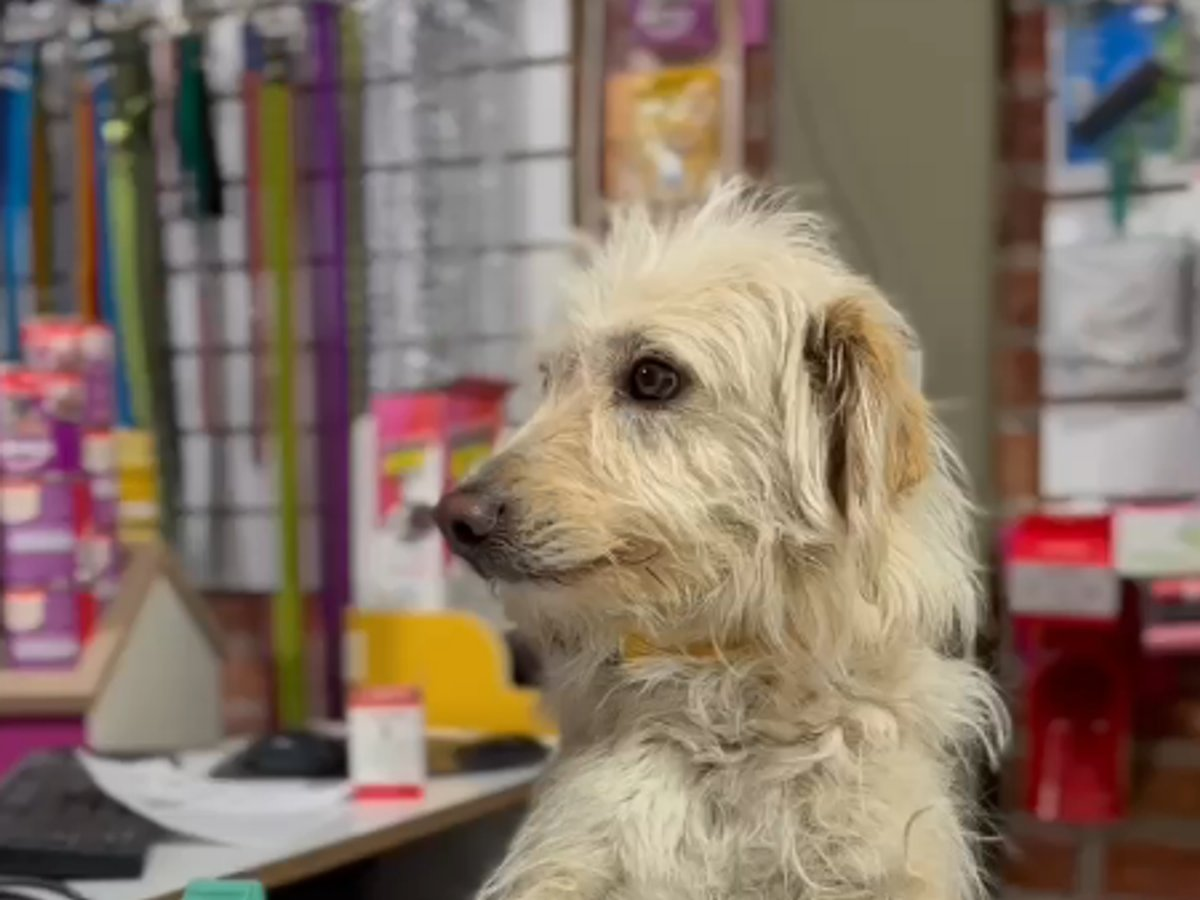
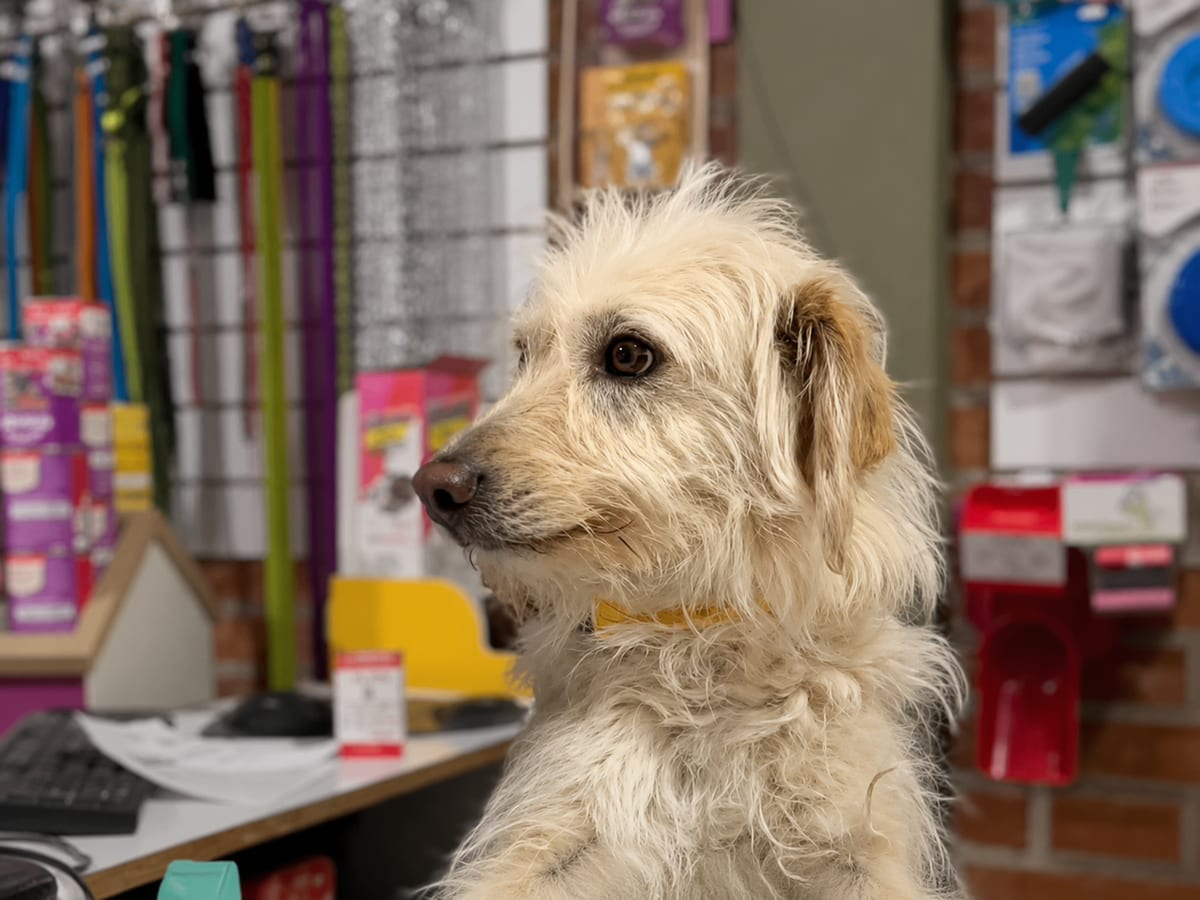
fix: mostrar la foto del interior completa y actualizar foto del hero
- local-interior.jpg: se usa la foto completa sin recortar (antes se recortaba a 16:9 y se perdia contenido). La seccion pasa de banda panoramica edge-to-edge a un panel centrado en formato vertical (aspect 3:4) para que entre toda la imagen.
- hero-mascotas.jpg: reemplaza por la nueva foto de perfil que paso el cliente.

diff --git a/index.html b/index.html
@@ -417,15 +417,19 @@
   </section>
 
   <!-- ============ BANDA DIVISORIA ============ -->
-  <!-- FOTO: local-interior.jpg — recomendado 1600x900px (16:9). Interior del local, idealmente con un cliente siendo atendido. -->
-  <section class="photo-slot aspect-[21/9] sm:aspect-[21/7]">
-    <div class="photo-slot__placeholder" style="background: linear-gradient(120deg, #FCDFE3 0%, #E3F5F7 50%, #F1F7E4 100%);">
-      <p class="font-heading text-xl sm:text-2xl text-coral-700 max-w-lg">
-        Más de 5 años acompañando a las familias de Pocito
-      </p>
+  <!-- FOTO: local-interior.jpg — foto completa del interior del local (sin recortar), formato vertical. -->
+  <section class="py-10 sm:py-14 bg-gradient-to-br from-coral-50 via-white to-turquoise-50">
+    <div class="max-w-sm sm:max-w-md mx-auto px-4 sm:px-6">
+      <div class="photo-slot rounded-3xl shadow-soft-lg aspect-[3/4] w-full">
+        <div class="photo-slot__placeholder" style="background: linear-gradient(120deg, #FCDFE3 0%, #E3F5F7 50%, #F1F7E4 100%);">
+          <p class="font-heading text-xl sm:text-2xl text-coral-700 max-w-lg">
+            Más de 5 años acompañando a las familias de Pocito
+          </p>
+        </div>
+        <img class="photo-slot__img" loading="lazy" src="assets/img/local-interior.jpg"
+             alt="Interior del local de Cuchín Pet Shop en Pocito, San Juan" onerror="this.style.display='none'">
+      </div>
     </div>
-    <img class="photo-slot__img" loading="lazy" src="assets/img/local-interior.jpg"
-         alt="Interior del local de Cuchín Pet Shop en Pocito, San Juan" onerror="this.style.display='none'">
   </section>
 
   <!-- ============ TESTIMONIOS ============ -->

diff --git a/styles.css b/styles.css
@@ -1,1 +1,1 @@
-*,:after,:before{--tw-border-spacing-x:0;--tw-border-spacing-y:0;--tw-translate-x:0;--tw-translate-y:0;--tw-rotate:0;--tw-skew-x:0;--tw-skew-y:0;--tw-scale-x:1;--tw-scale-y:1;--tw-pan-x: ;--tw-pan-y: ;--tw-pinch-zoom: ;--tw-scroll-snap-strictness:proximity;--tw-gradient-from-position: ;--tw-gradient-via-position: ;--tw-gradient-to-position: ;--tw-ordinal: ;--tw-slashed-zero: ;--tw-numeric-figure: ;--tw-numeric-spacing: ;--tw-numeric-fraction: ;--tw-ring-inset: ;--tw-ring-offset-width:0px;--tw-ring-offset-color:#fff;--tw-ring-color:rgba(59,130,246,.5);--tw-ring-offset-shadow:0 0 #0000;--tw-ring-shadow:0 0 #0000;--tw-shadow:0 0 #0000;--tw-shadow-colored:0 0 #0000;--tw-blur: ;--tw-brightness: ;--tw-contrast: ;--tw-grayscale: ;--tw-hue-rotate: ;--tw-invert: ;--tw-saturate: ;--tw-sepia: ;--tw-drop-shadow: ;--tw-backdrop-blur: ;--tw-backdrop-brightness: ;--tw-backdrop-contrast: ;--tw-backdrop-grayscale: ;--tw-backdrop-hue-rotate: ;--tw-backdrop-invert: ;--tw-backdrop-opacity: ;--tw-backdrop-saturate: ;--tw-backdrop-sepia: ;--tw-contain-size: ;--tw-contain-layout: ;--tw-contain-paint: ;--tw-contain-style: }::backdrop{--tw-border-spacing-x:0;--tw-border-spacing-y:0;--tw-translate-x:0;--tw-translate-y:0;--tw-rotate:0;--tw-skew-x:0;--tw-skew-y:0;--tw-scale-x:1;--tw-scale-y:1;--tw-pan-x: ;--tw-pan-y: ;--tw-pinch-zoom: ;--tw-scroll-snap-strictness:proximity;--tw-gradient-from-position: ;--tw-gradient-via-position: ;--tw-gradient-to-position: ;--tw-ordinal: ;--tw-slashed-zero: ;--tw-numeric-figure: ;--tw-numeric-spacing: ;--tw-numeric-fraction: ;--tw-ring-inset: ;--tw-ring-offset-width:0px;--tw-ring-offset-color:#fff;--tw-ring-color:rgba(59,130,246,.5);--tw-ring-offset-shadow:0 0 #0000;--tw-ring-shadow:0 0 #0000;--tw-shadow:0 0 #0000;--tw-shadow-colored:0 0 #0000;--tw-blur: ;--tw-brightness: ;--tw-contrast: ;--tw-grayscale: ;--tw-hue-rotate: ;--tw-invert: ;--tw-saturate: ;--tw-sepia: ;--tw-drop-shadow: ;--tw-backdrop-blur: ;--tw-backdrop-brightness: ;--tw-backdrop-contrast: ;--tw-backdrop-grayscale: ;--tw-backdrop-hue-rotate: ;--tw-backdrop-invert: ;--tw-backdrop-opacity: ;--tw-backdrop-saturate: ;--tw-backdrop-sepia: ;--tw-contain-size: ;--tw-contain-layout: ;--tw-contain-paint: ;--tw-contain-style: }/*! tailwindcss v3.4.19 | MIT License | https://tailwindcss.com*/*,:after,:before{box-sizing:border-box;border:0 solid #e5e7eb}:after,:before{--tw-content:""}:host,html{line-height:1.5;-webkit-text-size-adjust:100%;-moz-tab-size:4;-o-tab-size:4;tab-size:4;font-family:ui-sans-serif,system-ui,sans-serif,Apple Color Emoji,Segoe UI Emoji,Segoe UI Symbol,Noto Color Emoji;font-feature-settings:normal;font-variation-settings:normal;-webkit-tap-highlight-color:transparent}body{margin:0;line-height:inherit}hr{height:0;color:inherit;border-top-width:1px}abbr:where([title]){-webkit-text-decoration:underline dotted;text-decoration:underline dotted}h1,h2,h3,h4,h5,h6{font-size:inherit;font-weight:inherit}a{color:inherit;text-decoration:inherit}b,strong{font-weight:bolder}code,kbd,pre,samp{font-family:ui-monospace,SFMono-Regular,Menlo,Monaco,Consolas,Liberation Mono,Courier New,monospace;font-feature-settings:normal;font-variation-settings:normal;font-size:1em}small{font-size:80%}sub,sup{font-size:75%;line-height:0;position:relative;vertical-align:baseline}sub{bottom:-.25em}sup{top:-.5em}table{text-indent:0;border-color:inherit;border-collapse:collapse}button,input,optgroup,select,textarea{font-family:inherit;font-feature-settings:inherit;font-variation-settings:inherit;font-size:100%;font-weight:inherit;line-height:inherit;letter-spacing:inherit;color:inherit;margin:0;padding:0}button,select{text-transform:none}button,input:where([type=button]),input:where([type=reset]),input:where([type=submit]){-webkit-appearance:button;background-color:transparent;background-image:none}:-moz-focusring{outline:auto}:-moz-ui-invalid{box-shadow:none}progress{vertical-align:baseline}::-webkit-inner-spin-button,::-webkit-outer-spin-button{height:auto}[type=search]{-webkit-appearance:textfield;outline-offset:-2px}::-webkit-search-decoration{-webkit-appearance:none}::-webkit-file-upload-button{-webkit-appearance:button;font:inherit}summary{display:list-item}blockquote,dd,dl,figure,h1,h2,h3,h4,h5,h6,hr,p,pre{margin:0}fieldset{margin:0}fieldset,legend{padding:0}menu,ol,ul{list-style:none;margin:0;padding:0}dialog{padding:0}textarea{resize:vertical}input::-moz-placeholder,textarea::-moz-placeholder{opacity:1;color:#9ca3af}input::placeholder,textarea::placeholder{opacity:1;color:#9ca3af}[role=button],button{cursor:pointer}:disabled{cursor:default}audio,canvas,embed,iframe,img,object,svg,video{display:block;vertical-align:middle}img,video{max-width:100%;height:auto}[hidden]:where(:not([hidden=until-found])){display:none}.sr-only{position:absolute;width:1px;height:1px;padding:0;margin:-1px;overflow:hidden;clip:rect(0,0,0,0);white-space:nowrap;border-width:0}.fixed{position:fixed}.relative{position:relative}.inset-x-0{left:0;right:0}.bottom-6{bottom:1.5rem}.right-6{right:1.5rem}.top-0{top:0}.z-40{z-index:40}.z-50{z-index:50}.order-1{order:1}.order-2{order:2}.mx-auto{margin-left:auto;margin-right:auto}.mb-1{margin-bottom:.25rem}.mb-1\.5{margin-bottom:.375rem}.mb-10{margin-bottom:2.5rem}.mb-12{margin-bottom:3rem}.mb-2{margin-bottom:.5rem}.mb-3{margin-bottom:.75rem}.mb-4{margin-bottom:1rem}.mb-5{margin-bottom:1.25rem}.mb-6{margin-bottom:1.5rem}.mb-8{margin-bottom:2rem}.mt-0\.5{margin-top:.125rem}.mt-1{margin-top:.25rem}.mt-1\.5{margin-top:.375rem}.mt-10{margin-top:2.5rem}.mt-16{margin-top:4rem}.mt-2{margin-top:.5rem}.mt-6{margin-top:1.5rem}.block{display:block}.flex{display:flex}.inline-flex{display:inline-flex}.table{display:table}.grid{display:grid}.hidden{display:none}.aspect-\[21\/9\]{aspect-ratio:21/9}.aspect-\[4\/3\]{aspect-ratio:4/3}.h-10{height:2.5rem}.h-11{height:2.75rem}.h-12{height:3rem}.h-14{height:3.5rem}.h-16{height:4rem}.h-5{height:1.25rem}.h-9{height:2.25rem}.h-full{height:100%}.min-h-\[44px\]{min-height:44px}.w-11{width:2.75rem}.w-12{width:3rem}.w-14{width:3.5rem}.w-5{width:1.25rem}.w-auto{width:auto}.w-full{width:100%}.max-w-2xl{max-width:42rem}.max-w-3xl{max-width:48rem}.max-w-6xl{max-width:72rem}.max-w-lg{max-width:32rem}.max-w-prose{max-width:65ch}.max-w-sm{max-width:24rem}.max-w-xl{max-width:36rem}.max-w-xs{max-width:20rem}.shrink-0{flex-shrink:0}@keyframes spin{to{transform:rotate(1turn)}}.animate-spin{animation:spin 1s linear infinite}.cursor-pointer{cursor:pointer}.list-inside{list-style-position:inside}.list-decimal{list-style-type:decimal}.flex-col{flex-direction:column}.items-start{align-items:flex-start}.items-center{align-items:center}.justify-center{justify-content:center}.justify-between{justify-content:space-between}.gap-1{gap:.25rem}.gap-1\.5{gap:.375rem}.gap-10{gap:2.5rem}.gap-2{gap:.5rem}.gap-3{gap:.75rem}.gap-4{gap:1rem}.gap-5{gap:1.25rem}.gap-6{gap:1.5rem}.space-y-1>:not([hidden])~:not([hidden]){--tw-space-y-reverse:0;margin-top:calc(.25rem*(1 - var(--tw-space-y-reverse)));margin-bottom:calc(.25rem*var(--tw-space-y-reverse))}.space-y-1\.5>:not([hidden])~:not([hidden]){--tw-space-y-reverse:0;margin-top:calc(.375rem*(1 - var(--tw-space-y-reverse)));margin-bottom:calc(.375rem*var(--tw-space-y-reverse))}.space-y-2>:not([hidden])~:not([hidden]){--tw-space-y-reverse:0;margin-top:calc(.5rem*(1 - var(--tw-space-y-reverse)));margin-bottom:calc(.5rem*var(--tw-space-y-reverse))}.space-y-3>:not([hidden])~:not([hidden]){--tw-space-y-reverse:0;margin-top:calc(.75rem*(1 - var(--tw-space-y-reverse)));margin-bottom:calc(.75rem*var(--tw-space-y-reverse))}.space-y-8>:not([hidden])~:not([hidden]){--tw-space-y-reverse:0;margin-top:calc(2rem*(1 - var(--tw-space-y-reverse)));margin-bottom:calc(2rem*var(--tw-space-y-reverse))}.overflow-hidden{overflow:hidden}.rounded{border-radius:.25rem}.rounded-2xl{border-radius:1rem}.rounded-3xl{border-radius:1.5rem}.rounded-full{border-radius:9999px}.rounded-lg{border-radius:.5rem}.rounded-xl{border-radius:.75rem}.border{border-width:1px}.border-0{border-width:0}.border-2{border-width:2px}.border-b{border-bottom-width:1px}.border-t{border-top-width:1px}.border-dashed{border-style:dashed}.border-coral-100{--tw-border-opacity:1;border-color:rgb([phone redacted]/var(--tw-border-opacity,1))}.border-coral-200{--tw-border-opacity:1;border-color:rgb([phone redacted]/var(--tw-border-opacity,1))}.border-coral-600{--tw-border-opacity:1;border-color:rgb([phone redacted]/var(--tw-border-opacity,1))}.border-lime-100{--tw-border-opacity:1;border-color:rgb([phone redacted]/var(--tw-border-opacity,1))}.border-lime-200{--tw-border-opacity:1;border-color:rgb([phone redacted]/var(--tw-border-opacity,1))}.border-turquoise-100{--tw-border-opacity:1;border-color:rgb([phone redacted]/var(--tw-border-opacity,1))}.border-turquoise-800{--tw-border-opacity:1;border-color:rgb([phone redacted]/var(--tw-border-opacity,1))}.border-white\/10{border-color:hsla(0,0%,100%,.1)}.bg-coral-50{--tw-bg-opacity:1;background-color:rgb([phone redacted]/var(--tw-bg-opacity,1))}.bg-coral-600{--tw-bg-opacity:1;background-color:rgb([phone redacted]/var(--tw-bg-opacity,1))}.bg-ink{--tw-bg-opacity:1;background-color:rgb(43 26 29/var(--tw-bg-opacity,1))}.bg-lime-50{--tw-bg-opacity:1;background-color:rgb([phone redacted]/var(--tw-bg-opacity,1))}.bg-turquoise-50{--tw-bg-opacity:1;background-color:rgb([phone redacted]/var(--tw-bg-opacity,1))}.bg-turquoise-800{--tw-bg-opacity:1;background-color:rgb([phone redacted]/var(--tw-bg-opacity,1))}.bg-white{--tw-bg-opacity:1;background-color:rgb([phone redacted]/var(--tw-bg-opacity,1))}.bg-white\/10{background-color:hsla(0,0%,100%,.1)}.bg-white\/95{background-color:hsla(0,0%,100%,.95)}.bg-gradient-to-br{background-image:linear-gradient(to bottom right,var(--tw-gradient-stops))}.bg-gradient-to-r{background-image:linear-gradient(to right,var(--tw-gradient-stops))}.from-coral-50{--tw-gradient-from:#fef1f3 var(--tw-gradient-from-position);--tw-gradient-to:rgba(254,241,243,0) var(--tw-gradient-to-position);--tw-gradient-stops:var(--tw-gradient-from),var(--tw-gradient-to)}.from-turquoise-50{--tw-gradient-from:#f3fbfc var(--tw-gradient-from-position);--tw-gradient-to:rgba(243,251,252,0) var(--tw-gradient-to-position);--tw-gradient-stops:var(--tw-gradient-from),var(--tw-gradient-to)}.via-white{--tw-gradient-to:hsla(0,0%,100%,0) var(--tw-gradient-to-position);--tw-gradient-stops:var(--tw-gradient-from),#fff var(--tw-gradient-via-position),var(--tw-gradient-to)}.to-lime-50{--tw-gradient-to:#f9fbf3 var(--tw-gradient-to-position)}.to-turquoise-50{--tw-gradient-to:#f3fbfc var(--tw-gradient-to-position)}.p-4{padding:1rem}.p-5{padding:1.25rem}.p-6{padding:1.5rem}.px-2{padding-left:.5rem;padding-right:.5rem}.px-3{padding-left:.75rem;padding-right:.75rem}.px-4{padding-left:1rem;padding-right:1rem}.px-7{padding-left:1.75rem;padding-right:1.75rem}.px-8{padding-left:2rem;padding-right:2rem}.py-0{padding-top:0;padding-bottom:0}.py-0\.5{padding-top:.125rem;padding-bottom:.125rem}.py-1{padding-top:.25rem;padding-bottom:.25rem}.py-10{padding-top:2.5rem;padding-bottom:2.5rem}.py-12{padding-top:3rem;padding-bottom:3rem}.py-16{padding-top:4rem;padding-bottom:4rem}.py-2{padding-top:.5rem;padding-bottom:.5rem}.py-2\.5{padding-top:.625rem;padding-bottom:.625rem}.py-3{padding-top:.75rem;padding-bottom:.75rem}.py-3\.5{padding-top:.875rem;padding-bottom:.875rem}.pb-16{padding-bottom:4rem}.pb-4{padding-bottom:1rem}.pb-8{padding-bottom:2rem}.pr-3{padding-right:.75rem}.pt-28{padding-top:7rem}.pt-4{padding-top:1rem}.pt-5{padding-top:1.25rem}.text-center{text-align:center}.font-heading{font-family:Varela Round,sans-serif}.text-2xl{font-size:1.5rem;line-height:2rem}.text-3xl{font-size:1.875rem;line-height:2.25rem}.text-4xl{font-size:2.25rem;line-height:2.5rem}.text-5xl{font-size:3rem;line-height:1}.text-6xl{font-size:3.75rem;line-height:1}.text-\[11px\]{font-size:11px}.text-base{font-size:1rem;line-height:1.5rem}.text-lg{font-size:1.125rem;line-height:1.75rem}.text-sm{font-size:.875rem;line-height:1.25rem}.text-xl{font-size:1.25rem;line-height:1.75rem}.text-xs{font-size:.75rem;line-height:1rem}.font-bold{font-weight:700}.font-normal{font-weight:400}.font-semibold{font-weight:600}.italic{font-style:italic}.leading-relaxed{line-height:1.625}.leading-tight{line-height:1.25}.text-coral-300{--tw-text-opacity:1;color:rgb([phone redacted]/var(--tw-text-opacity,1))}.text-coral-400{--tw-text-opacity:1;color:rgb([phone redacted]/var(--tw-text-opacity,1))}.text-coral-600{--tw-text-opacity:1;color:rgb([phone redacted]/var(--tw-text-opacity,1))}.text-coral-700{--tw-text-opacity:1;color:rgb([phone redacted]/var(--tw-text-opacity,1))}.text-ink{--tw-text-opacity:1;color:rgb(43 26 29/var(--tw-text-opacity,1))}.text-ink-muted{--tw-text-opacity:1;color:rgb([phone redacted]/var(--tw-text-opacity,1))}.text-ink-muted\/70{color:rgba(107,90,93,.7)}.text-lime-600{--tw-text-opacity:1;color:rgb([phone redacted]/var(--tw-text-opacity,1))}.text-lime-700{--tw-text-opacity:1;color:rgb([phone redacted]/var(--tw-text-opacity,1))}.text-lime-800{--tw-text-opacity:1;color:rgb([phone redacted]/var(--tw-text-opacity,1))}.text-turquoise-600{--tw-text-opacity:1;color:rgb([phone redacted]/var(--tw-text-opacity,1))}.text-turquoise-700{--tw-text-opacity:1;color:rgb([phone redacted]/var(--tw-text-opacity,1))}.text-turquoise-800{--tw-text-opacity:1;color:rgb([phone redacted]/var(--tw-text-opacity,1))}.text-white{--tw-text-opacity:1;color:rgb([phone redacted]/var(--tw-text-opacity,1))}.text-white\/70{color:hsla(0,0%,100%,.7)}.text-white\/80{color:hsla(0,0%,100%,.8)}.text-white\/90{color:hsla(0,0%,100%,.9)}.underline{text-decoration-line:underline}.antialiased{-webkit-font-smoothing:antialiased;-moz-osx-font-smoothing:grayscale}.shadow-soft-lg{--tw-shadow:0 16px 32px rgba(238,98,120,.16);--tw-shadow-colored:0 16px 32px var(--tw-shadow-color)}.shadow-soft-lg,.shadow-soft-md{box-shadow:var(--tw-ring-offset-shadow,0 0 #0000),var(--tw-ring-shadow,0 0 #0000),var(--tw-shadow)}.shadow-soft-md{--tw-shadow:0 8px 24px rgba(238,98,120,.12);--tw-shadow-colored:0 8px 24px var(--tw-shadow-color)}.shadow-soft-sm{--tw-shadow:0 2px 8px rgba(238,98,120,.08);--tw-shadow-colored:0 2px 8px var(--tw-shadow-color);box-shadow:var(--tw-ring-offset-shadow,0 0 #0000),var(--tw-ring-shadow,0 0 #0000),var(--tw-shadow)}.outline{outline-style:solid}.blur{--tw-blur:blur(8px);filter:var(--tw-blur) var(--tw-brightness) var(--tw-contrast) var(--tw-grayscale) var(--tw-hue-rotate) var(--tw-invert) var(--tw-saturate) var(--tw-sepia) var(--tw-drop-shadow)}.backdrop-blur{--tw-backdrop-blur:blur(8px);-webkit-backdrop-filter:var(--tw-backdrop-blur) var(--tw-backdrop-brightness) var(--tw-backdrop-contrast) var(--tw-backdrop-grayscale) var(--tw-backdrop-hue-rotate) var(--tw-backdrop-invert) var(--tw-backdrop-opacity) var(--tw-backdrop-saturate) var(--tw-backdrop-sepia);backdrop-filter:var(--tw-backdrop-blur) var(--tw-backdrop-brightness) var(--tw-backdrop-contrast) var(--tw-backdrop-grayscale) var(--tw-backdrop-hue-rotate) var(--tw-backdrop-invert) var(--tw-backdrop-opacity) var(--tw-backdrop-saturate) var(--tw-backdrop-sepia)}.transition-all{transition-property:all;transition-timing-function:cubic-bezier(.4,0,.2,1);transition-duration:.15s}.transition-colors{transition-property:color,background-color,border-color,text-decoration-color,fill,stroke;transition-timing-function:cubic-bezier(.4,0,.2,1);transition-duration:.15s}.duration-200{transition-duration:.2s}html{scroll-behavior:smooth}body{font-family:Nunito Sans,sans-serif}.font-heading,h1,h2,h3{font-family:Varela Round,sans-serif}.photo-slot{position:relative;overflow:hidden}.photo-slot__placeholder{position:absolute;inset:0;display:flex;flex-direction:column;align-items:center;justify-content:center;gap:.5rem;background:linear-gradient(135deg,#fcdfe3,#e3f5f7 55%,#f1f7e4);color:#af132b;text-align:center;padding:1rem}.photo-slot__img{position:absolute;inset:0;width:100%;height:100%;-o-object-fit:cover;object-fit:cover}@media (prefers-reduced-motion:reduce){*,:after,:before{animation-duration:.01ms!important;animation-iteration-count:1!important;transition-duration:.01ms!important;scroll-behavior:auto!important}}@keyframes soft-pulse-ring{0%{box-shadow:0 0 0 0 rgba(212,23,53,.35)}to{box-shadow:0 0 0 16px rgba(212,23,53,0)}}.whatsapp-float:before{content:"";position:absolute;inset:0;border-radius:9999px;animation:soft-pulse-ring 1.8s ease-out 2}:focus-visible{outline:3px solid #d41735;outline-offset:2px}.hover\:-translate-y-0\.5:hover{--tw-translate-y:-0.125rem}.hover\:-translate-y-0\.5:hover,.hover\:-translate-y-1:hover{transform:translate(var(--tw-translate-x),var(--tw-translate-y)) rotate(var(--tw-rotate)) skewX(var(--tw-skew-x)) skewY(var(--tw-skew-y)) scaleX(var(--tw-scale-x)) scaleY(var(--tw-scale-y))}.hover\:-translate-y-1:hover{--tw-translate-y:-0.25rem}.hover\:bg-coral-50:hover{--tw-bg-opacity:1;background-color:rgb([phone redacted]/var(--tw-bg-opacity,1))}.hover\:bg-coral-700:hover{--tw-bg-opacity:1;background-color:rgb([phone redacted]/var(--tw-bg-opacity,1))}.hover\:bg-turquoise-50:hover{--tw-bg-opacity:1;background-color:rgb([phone redacted]/var(--tw-bg-opacity,1))}.hover\:bg-turquoise-900:hover{--tw-bg-opacity:1;background-color:rgb(28 89 95/var(--tw-bg-opacity,1))}.hover\:bg-white\/20:hover{background-color:hsla(0,0%,100%,.2)}.hover\:text-coral-600:hover{--tw-text-opacity:1;color:rgb([phone redacted]/var(--tw-text-opacity,1))}.hover\:text-white:hover{--tw-text-opacity:1;color:rgb([phone redacted]/var(--tw-text-opacity,1))}.hover\:underline:hover{text-decoration-line:underline}.hover\:shadow-soft-lg:hover{--tw-shadow:0 16px 32px rgba(238,98,120,.16);--tw-shadow-colored:0 16px 32px var(--tw-shadow-color)}.hover\:shadow-soft-lg:hover,.hover\:shadow-soft-md:hover{box-shadow:var(--tw-ring-offset-shadow,0 0 #0000),var(--tw-ring-shadow,0 0 #0000),var(--tw-shadow)}.hover\:shadow-soft-md:hover{--tw-shadow:0 8px 24px rgba(238,98,120,.12);--tw-shadow-colored:0 8px 24px var(--tw-shadow-color)}.focus\:not-sr-only:focus{position:static;width:auto;height:auto;padding:0;margin:0;overflow:visible;clip:auto;white-space:normal}.focus\:absolute:focus{position:absolute}.focus\:left-3:focus{left:.75rem}.focus\:top-3:focus{top:.75rem}.focus\:z-\[100\]:focus{z-index:100}.focus\:rounded-full:focus{border-radius:9999px}.focus\:border-coral-600:focus{--tw-border-opacity:1;border-color:rgb([phone redacted]/var(--tw-border-opacity,1))}.focus\:bg-white:focus{--tw-bg-opacity:1;background-color:rgb([phone redacted]/var(--tw-bg-opacity,1))}.focus\:px-4:focus{padding-left:1rem;padding-right:1rem}.focus\:py-2:focus{padding-top:.5rem;padding-bottom:.5rem}.focus\:font-bold:focus{font-weight:700}.focus\:text-coral-700:focus{--tw-text-opacity:1;color:rgb([phone redacted]/var(--tw-text-opacity,1))}.focus\:shadow-soft-lg:focus{--tw-shadow:0 16px 32px rgba(238,98,120,.16);--tw-shadow-colored:0 16px 32px var(--tw-shadow-color);box-shadow:var(--tw-ring-offset-shadow,0 0 #0000),var(--tw-ring-shadow,0 0 #0000),var(--tw-shadow)}.focus\:outline-none:focus{outline:2px solid transparent;outline-offset:2px}.focus\:ring-2:focus{--tw-ring-offset-shadow:var(--tw-ring-inset) 0 0 0 var(--tw-ring-offset-width) var(--tw-ring-offset-color);--tw-ring-shadow:var(--tw-ring-inset) 0 0 0 calc(2px + var(--tw-ring-offset-width)) var(--tw-ring-color);box-shadow:var(--tw-ring-offset-shadow),var(--tw-ring-shadow),var(--tw-shadow,0 0 #0000)}.focus\:ring-coral-600\/20:focus{--tw-ring-color:rgba(212,23,53,.2)}.focus\:ring-coral-600\/30:focus{--tw-ring-color:rgba(212,23,53,.3)}.disabled\:cursor-not-allowed:disabled{cursor:not-allowed}.disabled\:opacity-70:disabled{opacity:.7}.disabled\:hover\:translate-y-0:hover:disabled{--tw-translate-y:0px;transform:translate(var(--tw-translate-x),var(--tw-translate-y)) rotate(var(--tw-rotate)) skewX(var(--tw-skew-x)) skewY(var(--tw-skew-y)) scaleX(var(--tw-scale-x)) scaleY(var(--tw-scale-y))}@media (min-width:640px){.sm\:col-span-2{grid-column:span 2/span 2}.sm\:inline-flex{display:inline-flex}.sm\:aspect-\[21\/7\]{aspect-ratio:21/7}.sm\:w-auto{width:auto}.sm\:grid-cols-2{grid-template-columns:repeat(2,minmax(0,1fr))}.sm\:flex-row{flex-direction:row}.sm\:p-10{padding:2.5rem}.sm\:px-6{padding-left:1.5rem;padding-right:1.5rem}.sm\:py-16{padding-top:4rem;padding-bottom:4rem}.sm\:py-24{padding-top:6rem}.sm\:pb-24,.sm\:py-24{padding-bottom:6rem}.sm\:pt-36{padding-top:9rem}.sm\:text-2xl{font-size:1.5rem;line-height:2rem}.sm\:text-4xl{font-size:2.25rem;line-height:2.5rem}.sm\:text-5xl{font-size:3rem;line-height:1}}@media (min-width:768px){.md\:flex{display:flex}.md\:hidden{display:none}}@media (min-width:1024px){.lg\:order-1{order:1}.lg\:order-2{order:2}.lg\:col-span-1{grid-column:span 1/span 1}.lg\:aspect-auto{aspect-ratio:auto}.lg\:h-full{height:100%}.lg\:min-h-\[320px\]{min-height:320px}.lg\:grid-cols-2{grid-template-columns:repeat(2,minmax(0,1fr))}.lg\:grid-cols-3{grid-template-columns:repeat(3,minmax(0,1fr))}.lg\:grid-cols-4{grid-template-columns:repeat(4,minmax(0,1fr))}.lg\:gap-16{gap:4rem}}
+*,:after,:before{--tw-border-spacing-x:0;--tw-border-spacing-y:0;--tw-translate-x:0;--tw-translate-y:0;--tw-rotate:0;--tw-skew-x:0;--tw-skew-y:0;--tw-scale-x:1;--tw-scale-y:1;--tw-pan-x: ;--tw-pan-y: ;--tw-pinch-zoom: ;--tw-scroll-snap-strictness:proximity;--tw-gradient-from-position: ;--tw-gradient-via-position: ;--tw-gradient-to-position: ;--tw-ordinal: ;--tw-slashed-zero: ;--tw-numeric-figure: ;--tw-numeric-spacing: ;--tw-numeric-fraction: ;--tw-ring-inset: ;--tw-ring-offset-width:0px;--tw-ring-offset-color:#fff;--tw-ring-color:rgba(59,130,246,.5);--tw-ring-offset-shadow:0 0 #0000;--tw-ring-shadow:0 0 #0000;--tw-shadow:0 0 #0000;--tw-shadow-colored:0 0 #0000;--tw-blur: ;--tw-brightness: ;--tw-contrast: ;--tw-grayscale: ;--tw-hue-rotate: ;--tw-invert: ;--tw-saturate: ;--tw-sepia: ;--tw-drop-shadow: ;--tw-backdrop-blur: ;--tw-backdrop-brightness: ;--tw-backdrop-contrast: ;--tw-backdrop-grayscale: ;--tw-backdrop-hue-rotate: ;--tw-backdrop-invert: ;--tw-backdrop-opacity: ;--tw-backdrop-saturate: ;--tw-backdrop-sepia: ;--tw-contain-size: ;--tw-contain-layout: ;--tw-contain-paint: ;--tw-contain-style: }::backdrop{--tw-border-spacing-x:0;--tw-border-spacing-y:0;--tw-translate-x:0;--tw-translate-y:0;--tw-rotate:0;--tw-skew-x:0;--tw-skew-y:0;--tw-scale-x:1;--tw-scale-y:1;--tw-pan-x: ;--tw-pan-y: ;--tw-pinch-zoom: ;--tw-scroll-snap-strictness:proximity;--tw-gradient-from-position: ;--tw-gradient-via-position: ;--tw-gradient-to-position: ;--tw-ordinal: ;--tw-slashed-zero: ;--tw-numeric-figure: ;--tw-numeric-spacing: ;--tw-numeric-fraction: ;--tw-ring-inset: ;--tw-ring-offset-width:0px;--tw-ring-offset-color:#fff;--tw-ring-color:rgba(59,130,246,.5);--tw-ring-offset-shadow:0 0 #0000;--tw-ring-shadow:0 0 #0000;--tw-shadow:0 0 #0000;--tw-shadow-colored:0 0 #0000;--tw-blur: ;--tw-brightness: ;--tw-contrast: ;--tw-grayscale: ;--tw-hue-rotate: ;--tw-invert: ;--tw-saturate: ;--tw-sepia: ;--tw-drop-shadow: ;--tw-backdrop-blur: ;--tw-backdrop-brightness: ;--tw-backdrop-contrast: ;--tw-backdrop-grayscale: ;--tw-backdrop-hue-rotate: ;--tw-backdrop-invert: ;--tw-backdrop-opacity: ;--tw-backdrop-saturate: ;--tw-backdrop-sepia: ;--tw-contain-size: ;--tw-contain-layout: ;--tw-contain-paint: ;--tw-contain-style: }/*! tailwindcss v3.4.19 | MIT License | https://tailwindcss.com*/*,:after,:before{box-sizing:border-box;border:0 solid #e5e7eb}:after,:before{--tw-content:""}:host,html{line-height:1.5;-webkit-text-size-adjust:100%;-moz-tab-size:4;-o-tab-size:4;tab-size:4;font-family:ui-sans-serif,system-ui,sans-serif,Apple Color Emoji,Segoe UI Emoji,Segoe UI Symbol,Noto Color Emoji;font-feature-settings:normal;font-variation-settings:normal;-webkit-tap-highlight-color:transparent}body{margin:0;line-height:inherit}hr{height:0;color:inherit;border-top-width:1px}abbr:where([title]){-webkit-text-decoration:underline dotted;text-decoration:underline dotted}h1,h2,h3,h4,h5,h6{font-size:inherit;font-weight:inherit}a{color:inherit;text-decoration:inherit}b,strong{font-weight:bolder}code,kbd,pre,samp{font-family:ui-monospace,SFMono-Regular,Menlo,Monaco,Consolas,Liberation Mono,Courier New,monospace;font-feature-settings:normal;font-variation-settings:normal;font-size:1em}small{font-size:80%}sub,sup{font-size:75%;line-height:0;position:relative;vertical-align:baseline}sub{bottom:-.25em}sup{top:-.5em}table{text-indent:0;border-color:inherit;border-collapse:collapse}button,input,optgroup,select,textarea{font-family:inherit;font-feature-settings:inherit;font-variation-settings:inherit;font-size:100%;font-weight:inherit;line-height:inherit;letter-spacing:inherit;color:inherit;margin:0;padding:0}button,select{text-transform:none}button,input:where([type=button]),input:where([type=reset]),input:where([type=submit]){-webkit-appearance:button;background-color:transparent;background-image:none}:-moz-focusring{outline:auto}:-moz-ui-invalid{box-shadow:none}progress{vertical-align:baseline}::-webkit-inner-spin-button,::-webkit-outer-spin-button{height:auto}[type=search]{-webkit-appearance:textfield;outline-offset:-2px}::-webkit-search-decoration{-webkit-appearance:none}::-webkit-file-upload-button{-webkit-appearance:button;font:inherit}summary{display:list-item}blockquote,dd,dl,figure,h1,h2,h3,h4,h5,h6,hr,p,pre{margin:0}fieldset{margin:0}fieldset,legend{padding:0}menu,ol,ul{list-style:none;margin:0;padding:0}dialog{padding:0}textarea{resize:vertical}input::-moz-placeholder,textarea::-moz-placeholder{opacity:1;color:#9ca3af}input::placeholder,textarea::placeholder{opacity:1;color:#9ca3af}[role=button],button{cursor:pointer}:disabled{cursor:default}audio,canvas,embed,iframe,img,object,svg,video{display:block;vertical-align:middle}img,video{max-width:100%;height:auto}[hidden]:where(:not([hidden=until-found])){display:none}.sr-only{position:absolute;width:1px;height:1px;padding:0;margin:-1px;overflow:hidden;clip:rect(0,0,0,0);white-space:nowrap;border-width:0}.fixed{position:fixed}.relative{position:relative}.inset-x-0{left:0;right:0}.bottom-6{bottom:1.5rem}.right-6{right:1.5rem}.top-0{top:0}.z-40{z-index:40}.z-50{z-index:50}.order-1{order:1}.order-2{order:2}.mx-auto{margin-left:auto;margin-right:auto}.mb-1{margin-bottom:.25rem}.mb-1\.5{margin-bottom:.375rem}.mb-10{margin-bottom:2.5rem}.mb-12{margin-bottom:3rem}.mb-2{margin-bottom:.5rem}.mb-3{margin-bottom:.75rem}.mb-4{margin-bottom:1rem}.mb-5{margin-bottom:1.25rem}.mb-6{margin-bottom:1.5rem}.mb-8{margin-bottom:2rem}.mt-0\.5{margin-top:.125rem}.mt-1{margin-top:.25rem}.mt-1\.5{margin-top:.375rem}.mt-10{margin-top:2.5rem}.mt-16{margin-top:4rem}.mt-2{margin-top:.5rem}.mt-6{margin-top:1.5rem}.block{display:block}.flex{display:flex}.inline-flex{display:inline-flex}.table{display:table}.grid{display:grid}.hidden{display:none}.aspect-\[3\/4\]{aspect-ratio:3/4}.aspect-\[4\/3\]{aspect-ratio:4/3}.h-10{height:2.5rem}.h-11{height:2.75rem}.h-12{height:3rem}.h-14{height:3.5rem}.h-16{height:4rem}.h-5{height:1.25rem}.h-9{height:2.25rem}.h-full{height:100%}.min-h-\[44px\]{min-height:44px}.w-11{width:2.75rem}.w-12{width:3rem}.w-14{width:3.5rem}.w-5{width:1.25rem}.w-auto{width:auto}.w-full{width:100%}.max-w-2xl{max-width:42rem}.max-w-3xl{max-width:48rem}.max-w-6xl{max-width:72rem}.max-w-lg{max-width:32rem}.max-w-prose{max-width:65ch}.max-w-sm{max-width:24rem}.max-w-xl{max-width:36rem}.max-w-xs{max-width:20rem}.shrink-0{flex-shrink:0}@keyframes spin{to{transform:rotate(1turn)}}.animate-spin{animation:spin 1s linear infinite}.cursor-pointer{cursor:pointer}.list-inside{list-style-position:inside}.list-decimal{list-style-type:decimal}.flex-col{flex-direction:column}.items-start{align-items:flex-start}.items-center{align-items:center}.justify-center{justify-content:center}.justify-between{justify-content:space-between}.gap-1{gap:.25rem}.gap-1\.5{gap:.375rem}.gap-10{gap:2.5rem}.gap-2{gap:.5rem}.gap-3{gap:.75rem}.gap-4{gap:1rem}.gap-5{gap:1.25rem}.gap-6{gap:1.5rem}.space-y-1>:not([hidden])~:not([hidden]){--tw-space-y-reverse:0;margin-top:calc(.25rem*(1 - var(--tw-space-y-reverse)));margin-bottom:calc(.25rem*var(--tw-space-y-reverse))}.space-y-1\.5>:not([hidden])~:not([hidden]){--tw-space-y-reverse:0;margin-top:calc(.375rem*(1 - var(--tw-space-y-reverse)));margin-bottom:calc(.375rem*var(--tw-space-y-reverse))}.space-y-2>:not([hidden])~:not([hidden]){--tw-space-y-reverse:0;margin-top:calc(.5rem*(1 - var(--tw-space-y-reverse)));margin-bottom:calc(.5rem*var(--tw-space-y-reverse))}.space-y-3>:not([hidden])~:not([hidden]){--tw-space-y-reverse:0;margin-top:calc(.75rem*(1 - var(--tw-space-y-reverse)));margin-bottom:calc(.75rem*var(--tw-space-y-reverse))}.space-y-8>:not([hidden])~:not([hidden]){--tw-space-y-reverse:0;margin-top:calc(2rem*(1 - var(--tw-space-y-reverse)));margin-bottom:calc(2rem*var(--tw-space-y-reverse))}.overflow-hidden{overflow:hidden}.rounded{border-radius:.25rem}.rounded-2xl{border-radius:1rem}.rounded-3xl{border-radius:1.5rem}.rounded-full{border-radius:9999px}.rounded-lg{border-radius:.5rem}.rounded-xl{border-radius:.75rem}.border{border-width:1px}.border-0{border-width:0}.border-2{border-width:2px}.border-b{border-bottom-width:1px}.border-t{border-top-width:1px}.border-dashed{border-style:dashed}.border-coral-100{--tw-border-opacity:1;border-color:rgb([phone redacted]/var(--tw-border-opacity,1))}.border-coral-200{--tw-border-opacity:1;border-color:rgb([phone redacted]/var(--tw-border-opacity,1))}.border-coral-600{--tw-border-opacity:1;border-color:rgb([phone redacted]/var(--tw-border-opacity,1))}.border-lime-100{--tw-border-opacity:1;border-color:rgb([phone redacted]/var(--tw-border-opacity,1))}.border-lime-200{--tw-border-opacity:1;border-color:rgb([phone redacted]/var(--tw-border-opacity,1))}.border-turquoise-100{--tw-border-opacity:1;border-color:rgb([phone redacted]/var(--tw-border-opacity,1))}.border-turquoise-800{--tw-border-opacity:1;border-color:rgb([phone redacted]/var(--tw-border-opacity,1))}.border-white\/10{border-color:hsla(0,0%,100%,.1)}.bg-coral-50{--tw-bg-opacity:1;background-color:rgb([phone redacted]/var(--tw-bg-opacity,1))}.bg-coral-600{--tw-bg-opacity:1;background-color:rgb([phone redacted]/var(--tw-bg-opacity,1))}.bg-ink{--tw-bg-opacity:1;background-color:rgb(43 26 29/var(--tw-bg-opacity,1))}.bg-lime-50{--tw-bg-opacity:1;background-color:rgb([phone redacted]/var(--tw-bg-opacity,1))}.bg-turquoise-50{--tw-bg-opacity:1;background-color:rgb([phone redacted]/var(--tw-bg-opacity,1))}.bg-turquoise-800{--tw-bg-opacity:1;background-color:rgb([phone redacted]/var(--tw-bg-opacity,1))}.bg-white{--tw-bg-opacity:1;background-color:rgb([phone redacted]/var(--tw-bg-opacity,1))}.bg-white\/10{background-color:hsla(0,0%,100%,.1)}.bg-white\/95{background-color:hsla(0,0%,100%,.95)}.bg-gradient-to-br{background-image:linear-gradient(to bottom right,var(--tw-gradient-stops))}.bg-gradient-to-r{background-image:linear-gradient(to right,var(--tw-gradient-stops))}.from-coral-50{--tw-gradient-from:#fef1f3 var(--tw-gradient-from-position);--tw-gradient-to:rgba(254,241,243,0) var(--tw-gradient-to-position);--tw-gradient-stops:var(--tw-gradient-from),var(--tw-gradient-to)}.from-turquoise-50{--tw-gradient-from:#f3fbfc var(--tw-gradient-from-position);--tw-gradient-to:rgba(243,251,252,0) var(--tw-gradient-to-position);--tw-gradient-stops:var(--tw-gradient-from),var(--tw-gradient-to)}.via-white{--tw-gradient-to:hsla(0,0%,100%,0) var(--tw-gradient-to-position);--tw-gradient-stops:var(--tw-gradient-from),#fff var(--tw-gradient-via-position),var(--tw-gradient-to)}.to-lime-50{--tw-gradient-to:#f9fbf3 var(--tw-gradient-to-position)}.to-turquoise-50{--tw-gradient-to:#f3fbfc var(--tw-gradient-to-position)}.p-4{padding:1rem}.p-5{padding:1.25rem}.p-6{padding:1.5rem}.px-2{padding-left:.5rem;padding-right:.5rem}.px-3{padding-left:.75rem;padding-right:.75rem}.px-4{padding-left:1rem;padding-right:1rem}.px-7{padding-left:1.75rem;padding-right:1.75rem}.px-8{padding-left:2rem;padding-right:2rem}.py-0{padding-top:0;padding-bottom:0}.py-0\.5{padding-top:.125rem;padding-bottom:.125rem}.py-1{padding-top:.25rem;padding-bottom:.25rem}.py-10{padding-top:2.5rem;padding-bottom:2.5rem}.py-12{padding-top:3rem;padding-bottom:3rem}.py-16{padding-top:4rem;padding-bottom:4rem}.py-2{padding-top:.5rem;padding-bottom:.5rem}.py-2\.5{padding-top:.625rem;padding-bottom:.625rem}.py-3{padding-top:.75rem;padding-bottom:.75rem}.py-3\.5{padding-top:.875rem;padding-bottom:.875rem}.pb-16{padding-bottom:4rem}.pb-4{padding-bottom:1rem}.pb-8{padding-bottom:2rem}.pr-3{padding-right:.75rem}.pt-28{padding-top:7rem}.pt-4{padding-top:1rem}.pt-5{padding-top:1.25rem}.text-center{text-align:center}.font-heading{font-family:Varela Round,sans-serif}.text-2xl{font-size:1.5rem;line-height:2rem}.text-3xl{font-size:1.875rem;line-height:2.25rem}.text-4xl{font-size:2.25rem;line-height:2.5rem}.text-5xl{font-size:3rem;line-height:1}.text-6xl{font-size:3.75rem;line-height:1}.text-\[11px\]{font-size:11px}.text-base{font-size:1rem;line-height:1.5rem}.text-lg{font-size:1.125rem;line-height:1.75rem}.text-sm{font-size:.875rem;line-height:1.25rem}.text-xl{font-size:1.25rem;line-height:1.75rem}.text-xs{font-size:.75rem;line-height:1rem}.font-bold{font-weight:700}.font-normal{font-weight:400}.font-semibold{font-weight:600}.italic{font-style:italic}.leading-relaxed{line-height:1.625}.leading-tight{line-height:1.25}.text-coral-300{--tw-text-opacity:1;color:rgb([phone redacted]/var(--tw-text-opacity,1))}.text-coral-400{--tw-text-opacity:1;color:rgb([phone redacted]/var(--tw-text-opacity,1))}.text-coral-600{--tw-text-opacity:1;color:rgb([phone redacted]/var(--tw-text-opacity,1))}.text-coral-700{--tw-text-opacity:1;color:rgb([phone redacted]/var(--tw-text-opacity,1))}.text-ink{--tw-text-opacity:1;color:rgb(43 26 29/var(--tw-text-opacity,1))}.text-ink-muted{--tw-text-opacity:1;color:rgb([phone redacted]/var(--tw-text-opacity,1))}.text-ink-muted\/70{color:rgba(107,90,93,.7)}.text-lime-600{--tw-text-opacity:1;color:rgb([phone redacted]/var(--tw-text-opacity,1))}.text-lime-700{--tw-text-opacity:1;color:rgb([phone redacted]/var(--tw-text-opacity,1))}.text-lime-800{--tw-text-opacity:1;color:rgb([phone redacted]/var(--tw-text-opacity,1))}.text-turquoise-600{--tw-text-opacity:1;color:rgb([phone redacted]/var(--tw-text-opacity,1))}.text-turquoise-700{--tw-text-opacity:1;color:rgb([phone redacted]/var(--tw-text-opacity,1))}.text-turquoise-800{--tw-text-opacity:1;color:rgb([phone redacted]/var(--tw-text-opacity,1))}.text-white{--tw-text-opacity:1;color:rgb([phone redacted]/var(--tw-text-opacity,1))}.text-white\/70{color:hsla(0,0%,100%,.7)}.text-white\/80{color:hsla(0,0%,100%,.8)}.text-white\/90{color:hsla(0,0%,100%,.9)}.underline{text-decoration-line:underline}.antialiased{-webkit-font-smoothing:antialiased;-moz-osx-font-smoothing:grayscale}.shadow-soft-lg{--tw-shadow:0 16px 32px rgba(238,98,120,.16);--tw-shadow-colored:0 16px 32px var(--tw-shadow-color)}.shadow-soft-lg,.shadow-soft-md{box-shadow:var(--tw-ring-offset-shadow,0 0 #0000),var(--tw-ring-shadow,0 0 #0000),var(--tw-shadow)}.shadow-soft-md{--tw-shadow:0 8px 24px rgba(238,98,120,.12);--tw-shadow-colored:0 8px 24px var(--tw-shadow-color)}.shadow-soft-sm{--tw-shadow:0 2px 8px rgba(238,98,120,.08);--tw-shadow-colored:0 2px 8px var(--tw-shadow-color);box-shadow:var(--tw-ring-offset-shadow,0 0 #0000),var(--tw-ring-shadow,0 0 #0000),var(--tw-shadow)}.blur{--tw-blur:blur(8px);filter:var(--tw-blur) var(--tw-brightness) var(--tw-contrast) var(--tw-grayscale) var(--tw-hue-rotate) var(--tw-invert) var(--tw-saturate) var(--tw-sepia) var(--tw-drop-shadow)}.backdrop-blur{--tw-backdrop-blur:blur(8px);-webkit-backdrop-filter:var(--tw-backdrop-blur) var(--tw-backdrop-brightness) var(--tw-backdrop-contrast) var(--tw-backdrop-grayscale) var(--tw-backdrop-hue-rotate) var(--tw-backdrop-invert) var(--tw-backdrop-opacity) var(--tw-backdrop-saturate) var(--tw-backdrop-sepia);backdrop-filter:var(--tw-backdrop-blur) var(--tw-backdrop-brightness) var(--tw-backdrop-contrast) var(--tw-backdrop-grayscale) var(--tw-backdrop-hue-rotate) var(--tw-backdrop-invert) var(--tw-backdrop-opacity) var(--tw-backdrop-saturate) var(--tw-backdrop-sepia)}.transition-all{transition-property:all;transition-timing-function:cubic-bezier(.4,0,.2,1);transition-duration:.15s}.transition-colors{transition-property:color,background-color,border-color,text-decoration-color,fill,stroke;transition-timing-function:cubic-bezier(.4,0,.2,1);transition-duration:.15s}.duration-200{transition-duration:.2s}html{scroll-behavior:smooth}body{font-family:Nunito Sans,sans-serif}.font-heading,h1,h2,h3{font-family:Varela Round,sans-serif}.photo-slot{position:relative;overflow:hidden}.photo-slot__placeholder{position:absolute;inset:0;display:flex;flex-direction:column;align-items:center;justify-content:center;gap:.5rem;background:linear-gradient(135deg,#fcdfe3,#e3f5f7 55%,#f1f7e4);color:#af132b;text-align:center;padding:1rem}.photo-slot__img{position:absolute;inset:0;width:100%;height:100%;-o-object-fit:cover;object-fit:cover}@media (prefers-reduced-motion:reduce){*,:after,:before{animation-duration:.01ms!important;animation-iteration-count:1!important;transition-duration:.01ms!important;scroll-behavior:auto!important}}@keyframes soft-pulse-ring{0%{box-shadow:0 0 0 0 rgba(212,23,53,.35)}to{box-shadow:0 0 0 16px rgba(212,23,53,0)}}.whatsapp-float:before{content:"";position:absolute;inset:0;border-radius:9999px;animation:soft-pulse-ring 1.8s ease-out 2}:focus-visible{outline:3px solid #d41735;outline-offset:2px}.hover\:-translate-y-0\.5:hover{--tw-translate-y:-0.125rem}.hover\:-translate-y-0\.5:hover,.hover\:-translate-y-1:hover{transform:translate(var(--tw-translate-x),var(--tw-translate-y)) rotate(var(--tw-rotate)) skewX(var(--tw-skew-x)) skewY(var(--tw-skew-y)) scaleX(var(--tw-scale-x)) scaleY(var(--tw-scale-y))}.hover\:-translate-y-1:hover{--tw-translate-y:-0.25rem}.hover\:bg-coral-50:hover{--tw-bg-opacity:1;background-color:rgb([phone redacted]/var(--tw-bg-opacity,1))}.hover\:bg-coral-700:hover{--tw-bg-opacity:1;background-color:rgb([phone redacted]/var(--tw-bg-opacity,1))}.hover\:bg-turquoise-50:hover{--tw-bg-opacity:1;background-color:rgb([phone redacted]/var(--tw-bg-opacity,1))}.hover\:bg-turquoise-900:hover{--tw-bg-opacity:1;background-color:rgb(28 89 95/var(--tw-bg-opacity,1))}.hover\:bg-white\/20:hover{background-color:hsla(0,0%,100%,.2)}.hover\:text-coral-600:hover{--tw-text-opacity:1;color:rgb([phone redacted]/var(--tw-text-opacity,1))}.hover\:text-white:hover{--tw-text-opacity:1;color:rgb([phone redacted]/var(--tw-text-opacity,1))}.hover\:underline:hover{text-decoration-line:underline}.hover\:shadow-soft-lg:hover{--tw-shadow:0 16px 32px rgba(238,98,120,.16);--tw-shadow-colored:0 16px 32px var(--tw-shadow-color)}.hover\:shadow-soft-lg:hover,.hover\:shadow-soft-md:hover{box-shadow:var(--tw-ring-offset-shadow,0 0 #0000),var(--tw-ring-shadow,0 0 #0000),var(--tw-shadow)}.hover\:shadow-soft-md:hover{--tw-shadow:0 8px 24px rgba(238,98,120,.12);--tw-shadow-colored:0 8px 24px var(--tw-shadow-color)}.focus\:not-sr-only:focus{position:static;width:auto;height:auto;padding:0;margin:0;overflow:visible;clip:auto;white-space:normal}.focus\:absolute:focus{position:absolute}.focus\:left-3:focus{left:.75rem}.focus\:top-3:focus{top:.75rem}.focus\:z-\[100\]:focus{z-index:100}.focus\:rounded-full:focus{border-radius:9999px}.focus\:border-coral-600:focus{--tw-border-opacity:1;border-color:rgb([phone redacted]/var(--tw-border-opacity,1))}.focus\:bg-white:focus{--tw-bg-opacity:1;background-color:rgb([phone redacted]/var(--tw-bg-opacity,1))}.focus\:px-4:focus{padding-left:1rem;padding-right:1rem}.focus\:py-2:focus{padding-top:.5rem;padding-bottom:.5rem}.focus\:font-bold:focus{font-weight:700}.focus\:text-coral-700:focus{--tw-text-opacity:1;color:rgb([phone redacted]/var(--tw-text-opacity,1))}.focus\:shadow-soft-lg:focus{--tw-shadow:0 16px 32px rgba(238,98,120,.16);--tw-shadow-colored:0 16px 32px var(--tw-shadow-color);box-shadow:var(--tw-ring-offset-shadow,0 0 #0000),var(--tw-ring-shadow,0 0 #0000),var(--tw-shadow)}.focus\:outline-none:focus{outline:2px solid transparent;outline-offset:2px}.focus\:ring-2:focus{--tw-ring-offset-shadow:var(--tw-ring-inset) 0 0 0 var(--tw-ring-offset-width) var(--tw-ring-offset-color);--tw-ring-shadow:var(--tw-ring-inset) 0 0 0 calc(2px + var(--tw-ring-offset-width)) var(--tw-ring-color);box-shadow:var(--tw-ring-offset-shadow),var(--tw-ring-shadow),var(--tw-shadow,0 0 #0000)}.focus\:ring-coral-600\/20:focus{--tw-ring-color:rgba(212,23,53,.2)}.focus\:ring-coral-600\/30:focus{--tw-ring-color:rgba(212,23,53,.3)}.disabled\:cursor-not-allowed:disabled{cursor:not-allowed}.disabled\:opacity-70:disabled{opacity:.7}.disabled\:hover\:translate-y-0:hover:disabled{--tw-translate-y:0px;transform:translate(var(--tw-translate-x),var(--tw-translate-y)) rotate(var(--tw-rotate)) skewX(var(--tw-skew-x)) skewY(var(--tw-skew-y)) scaleX(var(--tw-scale-x)) scaleY(var(--tw-scale-y))}@media (min-width:640px){.sm\:col-span-2{grid-column:span 2/span 2}.sm\:inline-flex{display:inline-flex}.sm\:w-auto{width:auto}.sm\:max-w-md{max-width:28rem}.sm\:grid-cols-2{grid-template-columns:repeat(2,minmax(0,1fr))}.sm\:flex-row{flex-direction:row}.sm\:p-10{padding:2.5rem}.sm\:px-6{padding-left:1.5rem;padding-right:1.5rem}.sm\:py-14{padding-top:3.5rem;padding-bottom:3.5rem}.sm\:py-16{padding-top:4rem;padding-bottom:4rem}.sm\:py-24{padding-top:6rem}.sm\:pb-24,.sm\:py-24{padding-bottom:6rem}.sm\:pt-36{padding-top:9rem}.sm\:text-2xl{font-size:1.5rem;line-height:2rem}.sm\:text-4xl{font-size:2.25rem;line-height:2.5rem}.sm\:text-5xl{font-size:3rem;line-height:1}}@media (min-width:768px){.md\:flex{display:flex}.md\:hidden{display:none}}@media (min-width:1024px){.lg\:order-1{order:1}.lg\:order-2{order:2}.lg\:col-span-1{grid-column:span 1/span 1}.lg\:aspect-auto{aspect-ratio:auto}.lg\:h-full{height:100%}.lg\:min-h-\[320px\]{min-height:320px}.lg\:grid-cols-2{grid-template-columns:repeat(2,minmax(0,1fr))}.lg\:grid-cols-3{grid-template-columns:repeat(3,minmax(0,1fr))}.lg\:grid-cols-4{grid-template-columns:repeat(4,minmax(0,1fr))}.lg\:gap-16{gap:4rem}}